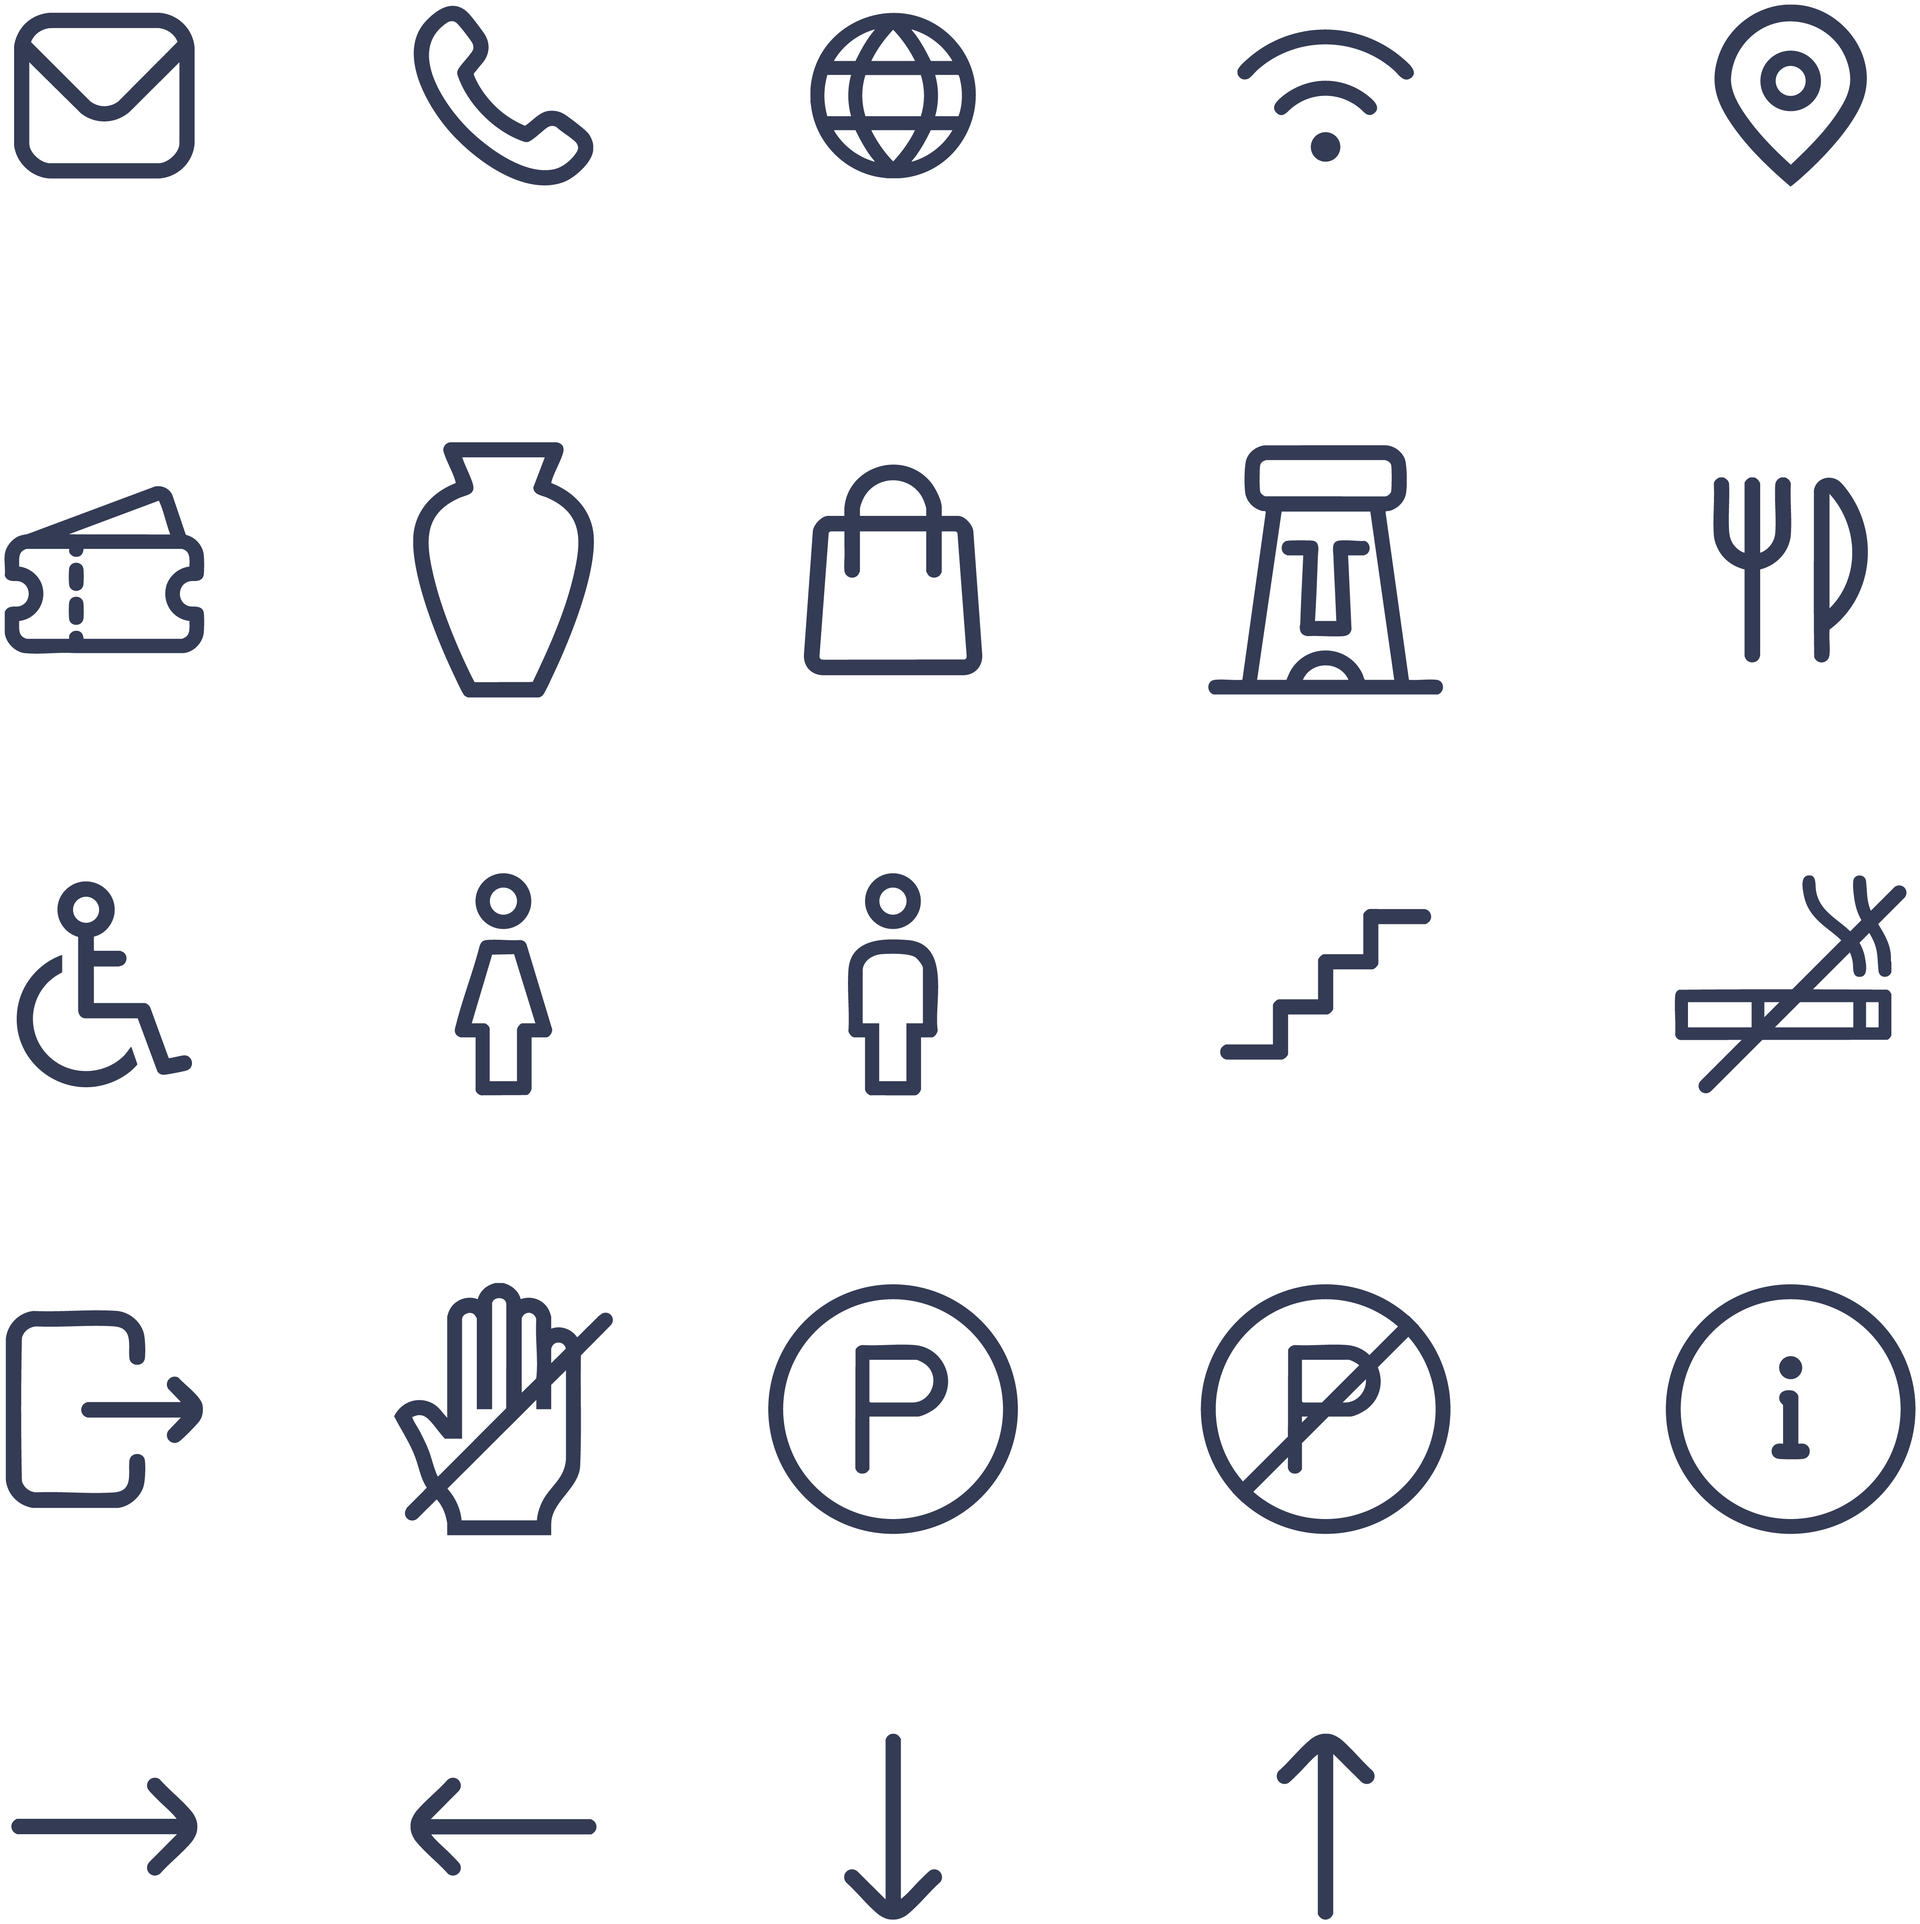
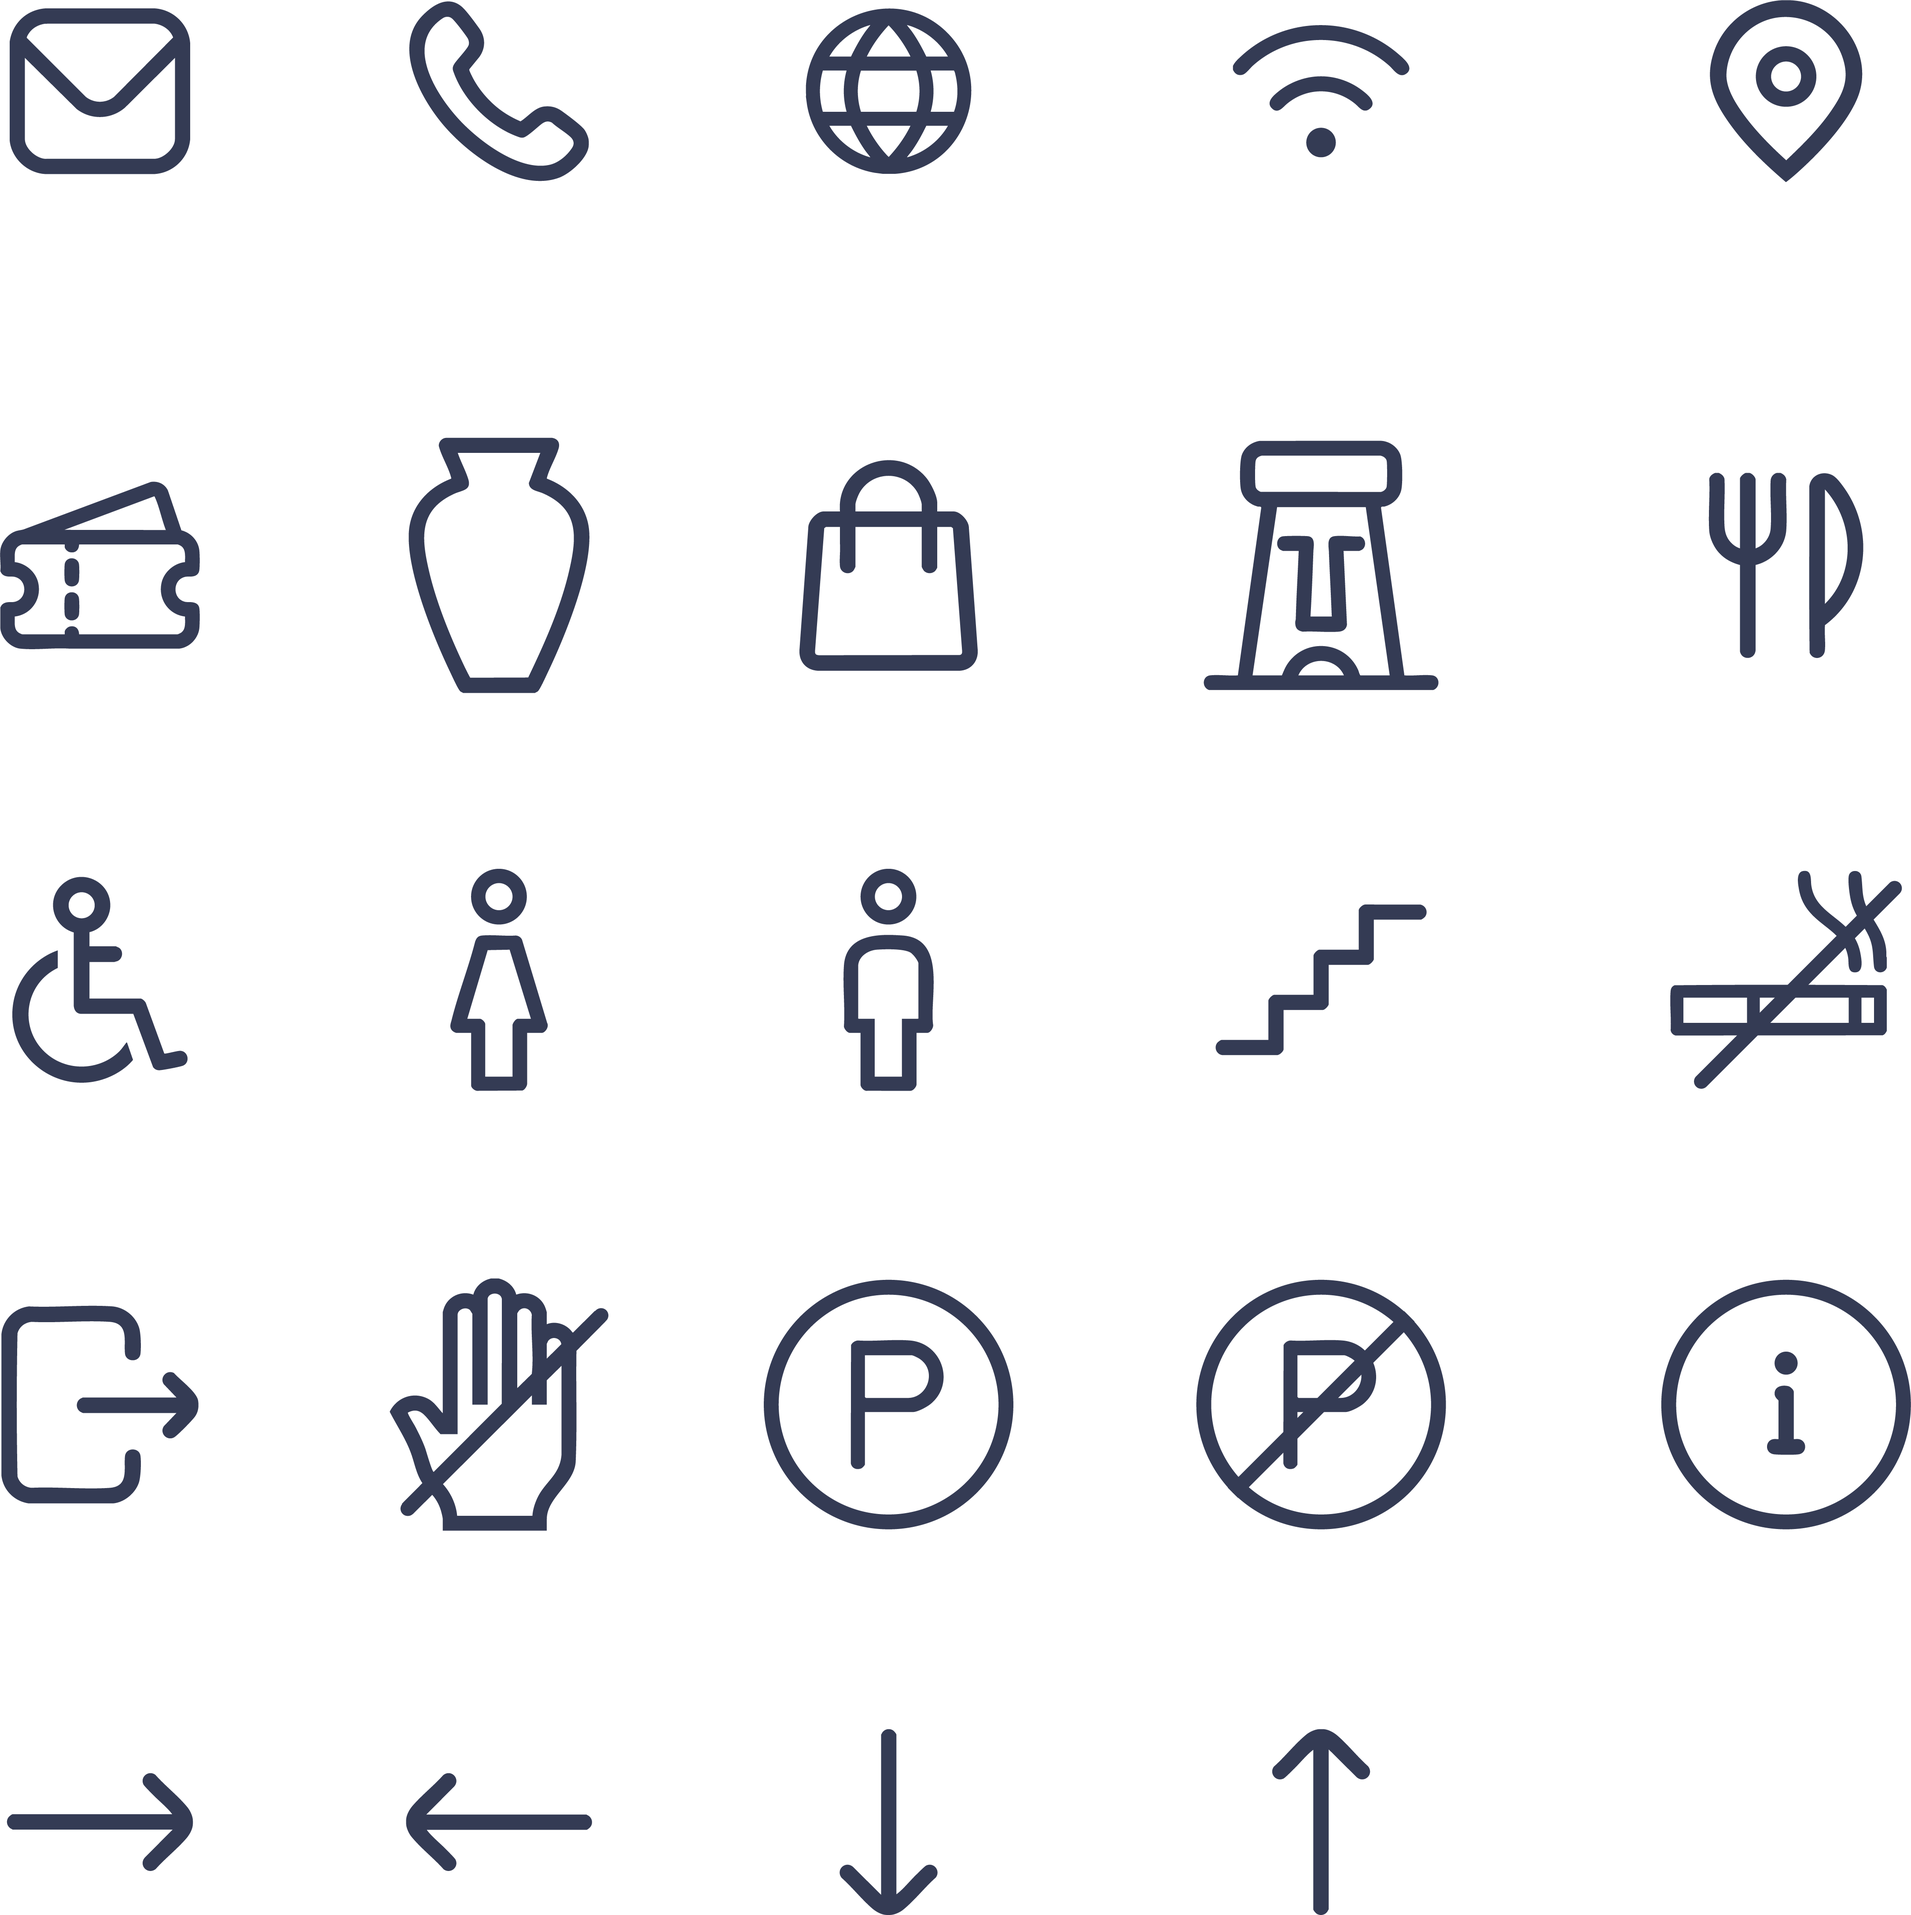
Fix work

diff --git a/js/work-modal.js b/js/work-modal.js
@@ -15,10 +15,19 @@
   // thumbnail (its "subject" shot), then the rest of that work's assets.
   var WORK_IMAGES = [
     [
+      // w01 2/5/6 only exist in the main images/work 01 folder, not
+      // duplicated into webcontent — same pattern as work04/work05's
+      // extra assets. p01.jpg dropped per request.
+      // Explicit layout: w01_1 + w01_4 paired in one row, the rest each
+      // get their own full-width row.
       "../images/webcontent%20/work%2001/thumb.png",
-      "../images/webcontent%20/work%2001/p01.jpg",
-      "../images/webcontent%20/work%2001/w01%201.png",
-      "../images/webcontent%20/work%2001/w01%204.png",
+      [
+        "../images/webcontent%20/work%2001/w01%201.png",
+        "../images/webcontent%20/work%2001/w01%204.png"
+      ],
+      "../images/work%2001/w01%202.png",
+      "../images/work%2001/w01%205.png",
+      "../images/work%2001/w01%206.png",
       "../images/webcontent%20/work%2001/w01.png"
     ],
     [
